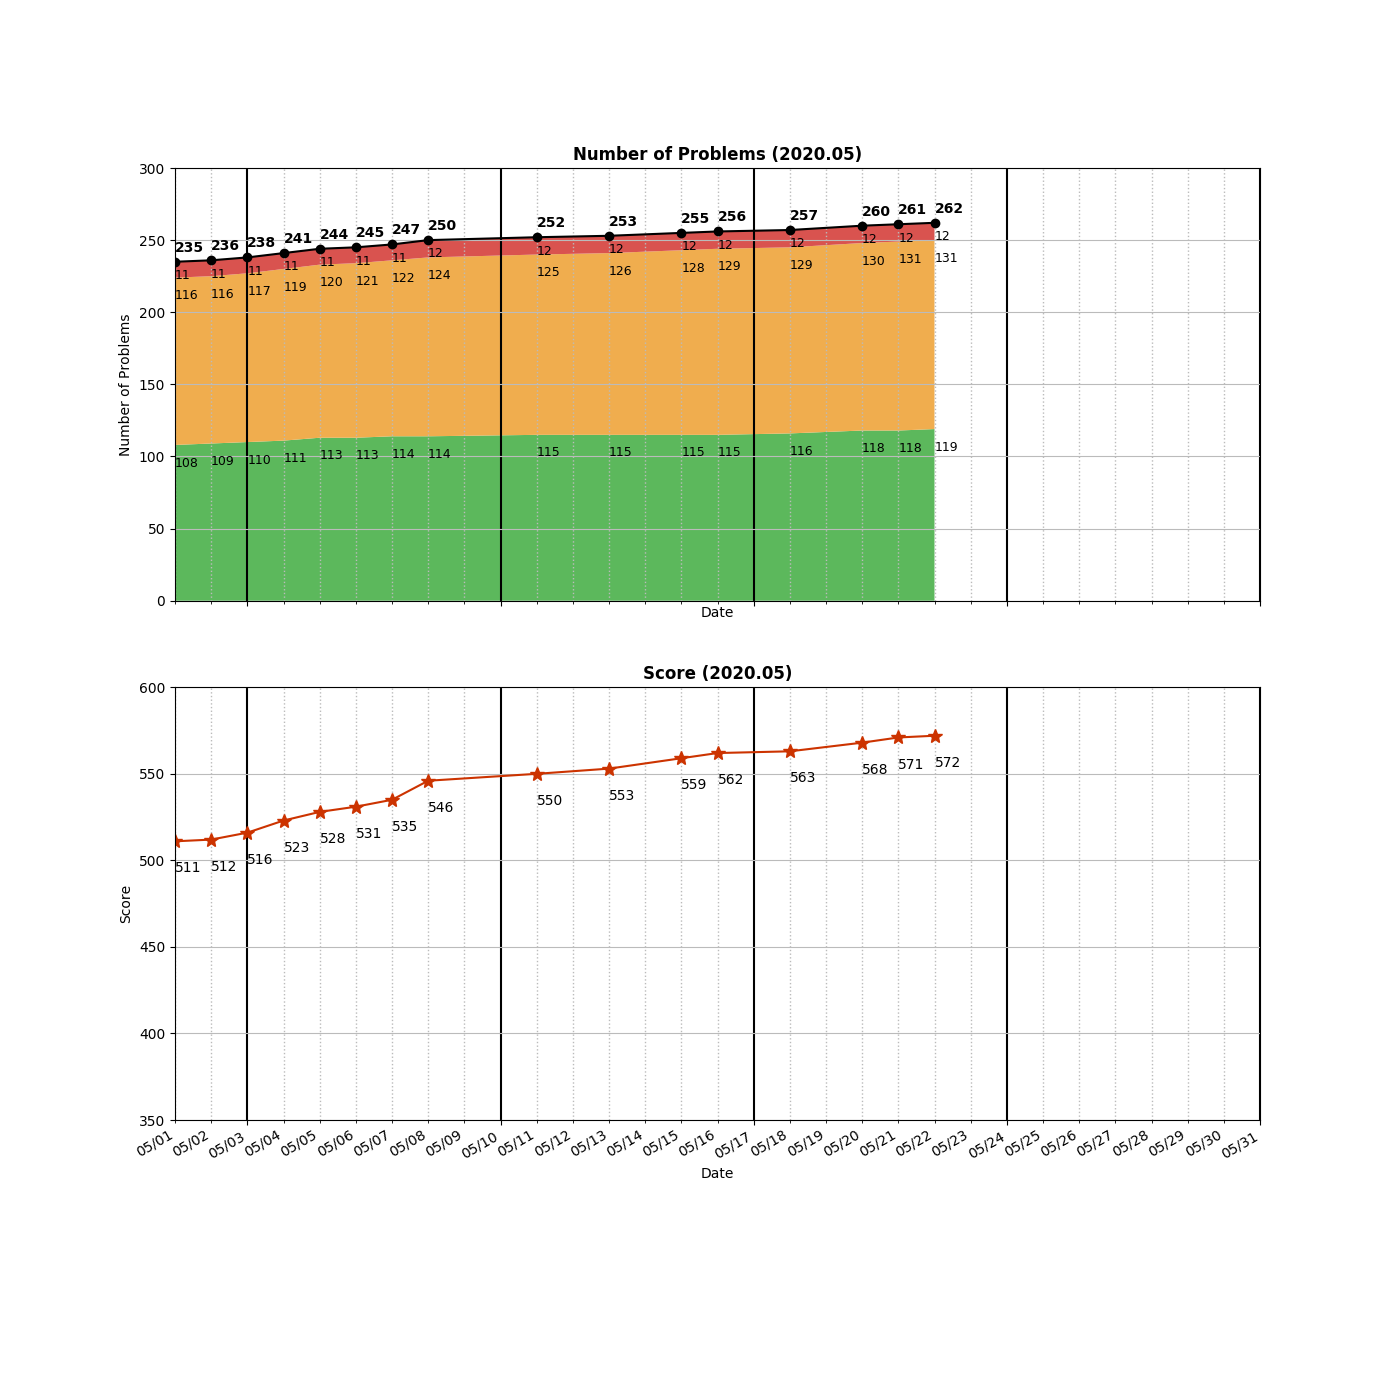
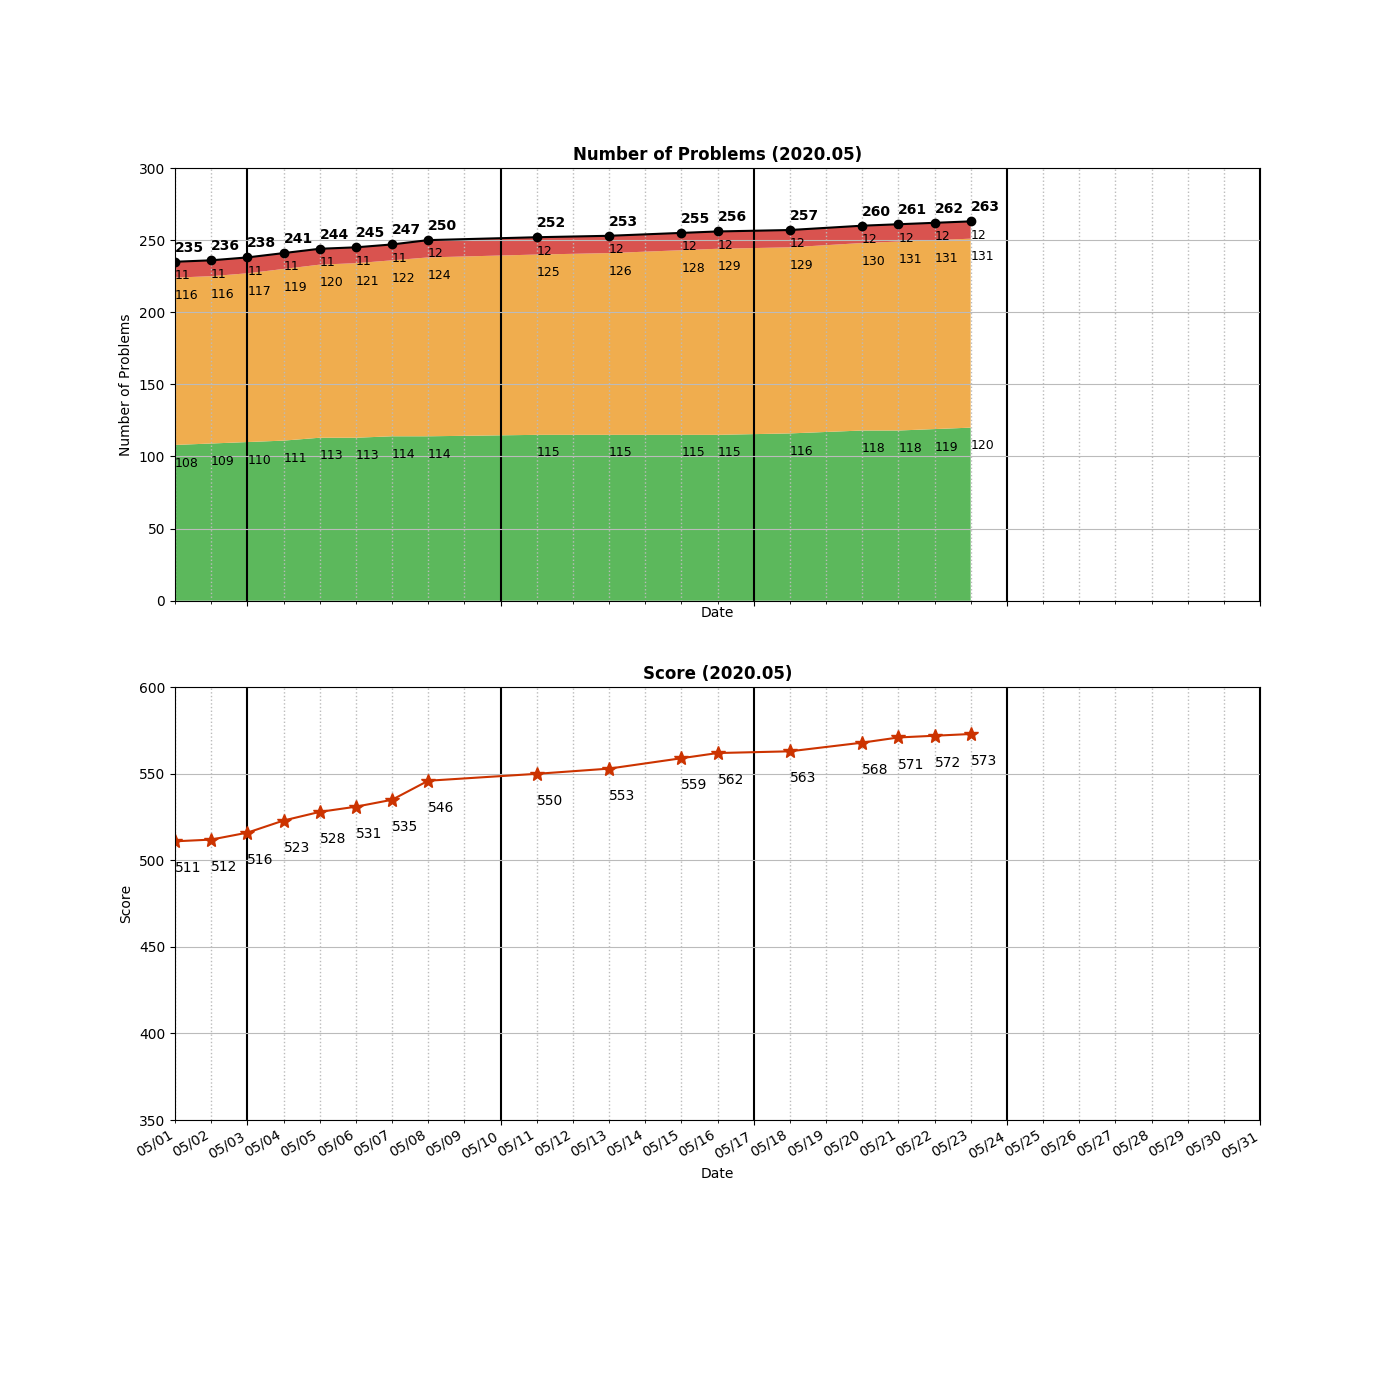
Added _0346_MovingAverageFromDataStream.py

Changed region(s): [[0.645, 0.1536, 0.7064, 0.43], [0.6757, 0.5221, 0.7064, 0.5529]]

diff --git a/algo/data-structure/_0346_MovingAverageFromDataStream.py b/algo/data-structure/_0346_MovingAverageFromDataStream.py
@@ -1,0 +1,26 @@
+class MovingAverage:
+
+    def __init__(self, size: int):
+        """
+        Initialize your data structure here.
+        """
+        self.sum = 0
+        self.cap = size
+        self.deque = collections.deque([])
+
+    def next(self, val: int) -> float:
+        if len(self.deque) == self.cap:
+            left = self.deque[0]
+            self.deque.popleft()
+            self.deque.append(val)
+            self.sum = self.sum - left + val
+        else:
+            self.deque.append(val)
+            self.sum = self.sum + val
+        return self.sum / len(self.deque)
+            
+
+
+# Your MovingAverage object will be instantiated and called as such:
+# obj = MovingAverage(size)
+# param_1 = obj.next(val)

diff --git a/README.md b/README.md
@@ -81,6 +81,7 @@ algo
 ├── bits
 │   └── _0268_MissingNumber.py
 ├── data-structure
+│   ├── _0346_MovingAverageFromDataStream.py
 │   ├── _0362_DesignHitCounter.py
 │   └── _0846_HandOfStraights.py
 ├── dfs
@@ -283,7 +284,7 @@ algo
     ├── _0127_WordLadder.py
     └── wordladder.py
 
-22 directories, 260 files
+22 directories, 261 files
 
 =====================================
 ============= Local Repo ============
@@ -440,6 +441,7 @@ _0313_SuperUglyNumber.py
 _0322_CoinChange.py
 _0338_CountingBits.py
 _0344_ReverseString.py
+_0346_MovingAverageFromDataStream.py
 _0347_TopKFrequentElements.py
 _0348_DesignTic-Tac-Toe.py
 _0349_IntersectionOfTwoArrays.py
@@ -547,7 +549,7 @@ _1391_CheckIfThereIsAValidPathInAGrid.py
 _1427_PerformStringShifts.py
 _305_NumberOfIslands2.py
 =====================================
-Num of Python Practice:  258
+Num of Python Practice:  259
 
 
 =====================================
@@ -706,6 +708,7 @@ Num of Python Practice:  258
  0322 Coin Change
  0338 Counting Bits
  0344 Reverse String
+ 0346 Moving Average from Data Stream
  0347 Top K Frequent Elements
  0348 Design Tic-Tac-Toe
  0349 Intersection of Two Arrays
@@ -816,11 +819,11 @@ Num of Python Practice:  258
  1426 Counting Elements
  1427 Perform String Shifts
 =====================================
-Solved / Total (Easy)  :  119 /  407
+Solved / Total (Easy)  :  120 /  407
 Solved / Total (Medium):  131 /  743
 Solved / Total (Hard)  :   12 /  304
-Solved / Total (All)   :  262 / 1454
-Total Score            :  572
+Solved / Total (All)   :  263 / 1454
+Total Score            :  573
 =====================================
 
 ```
